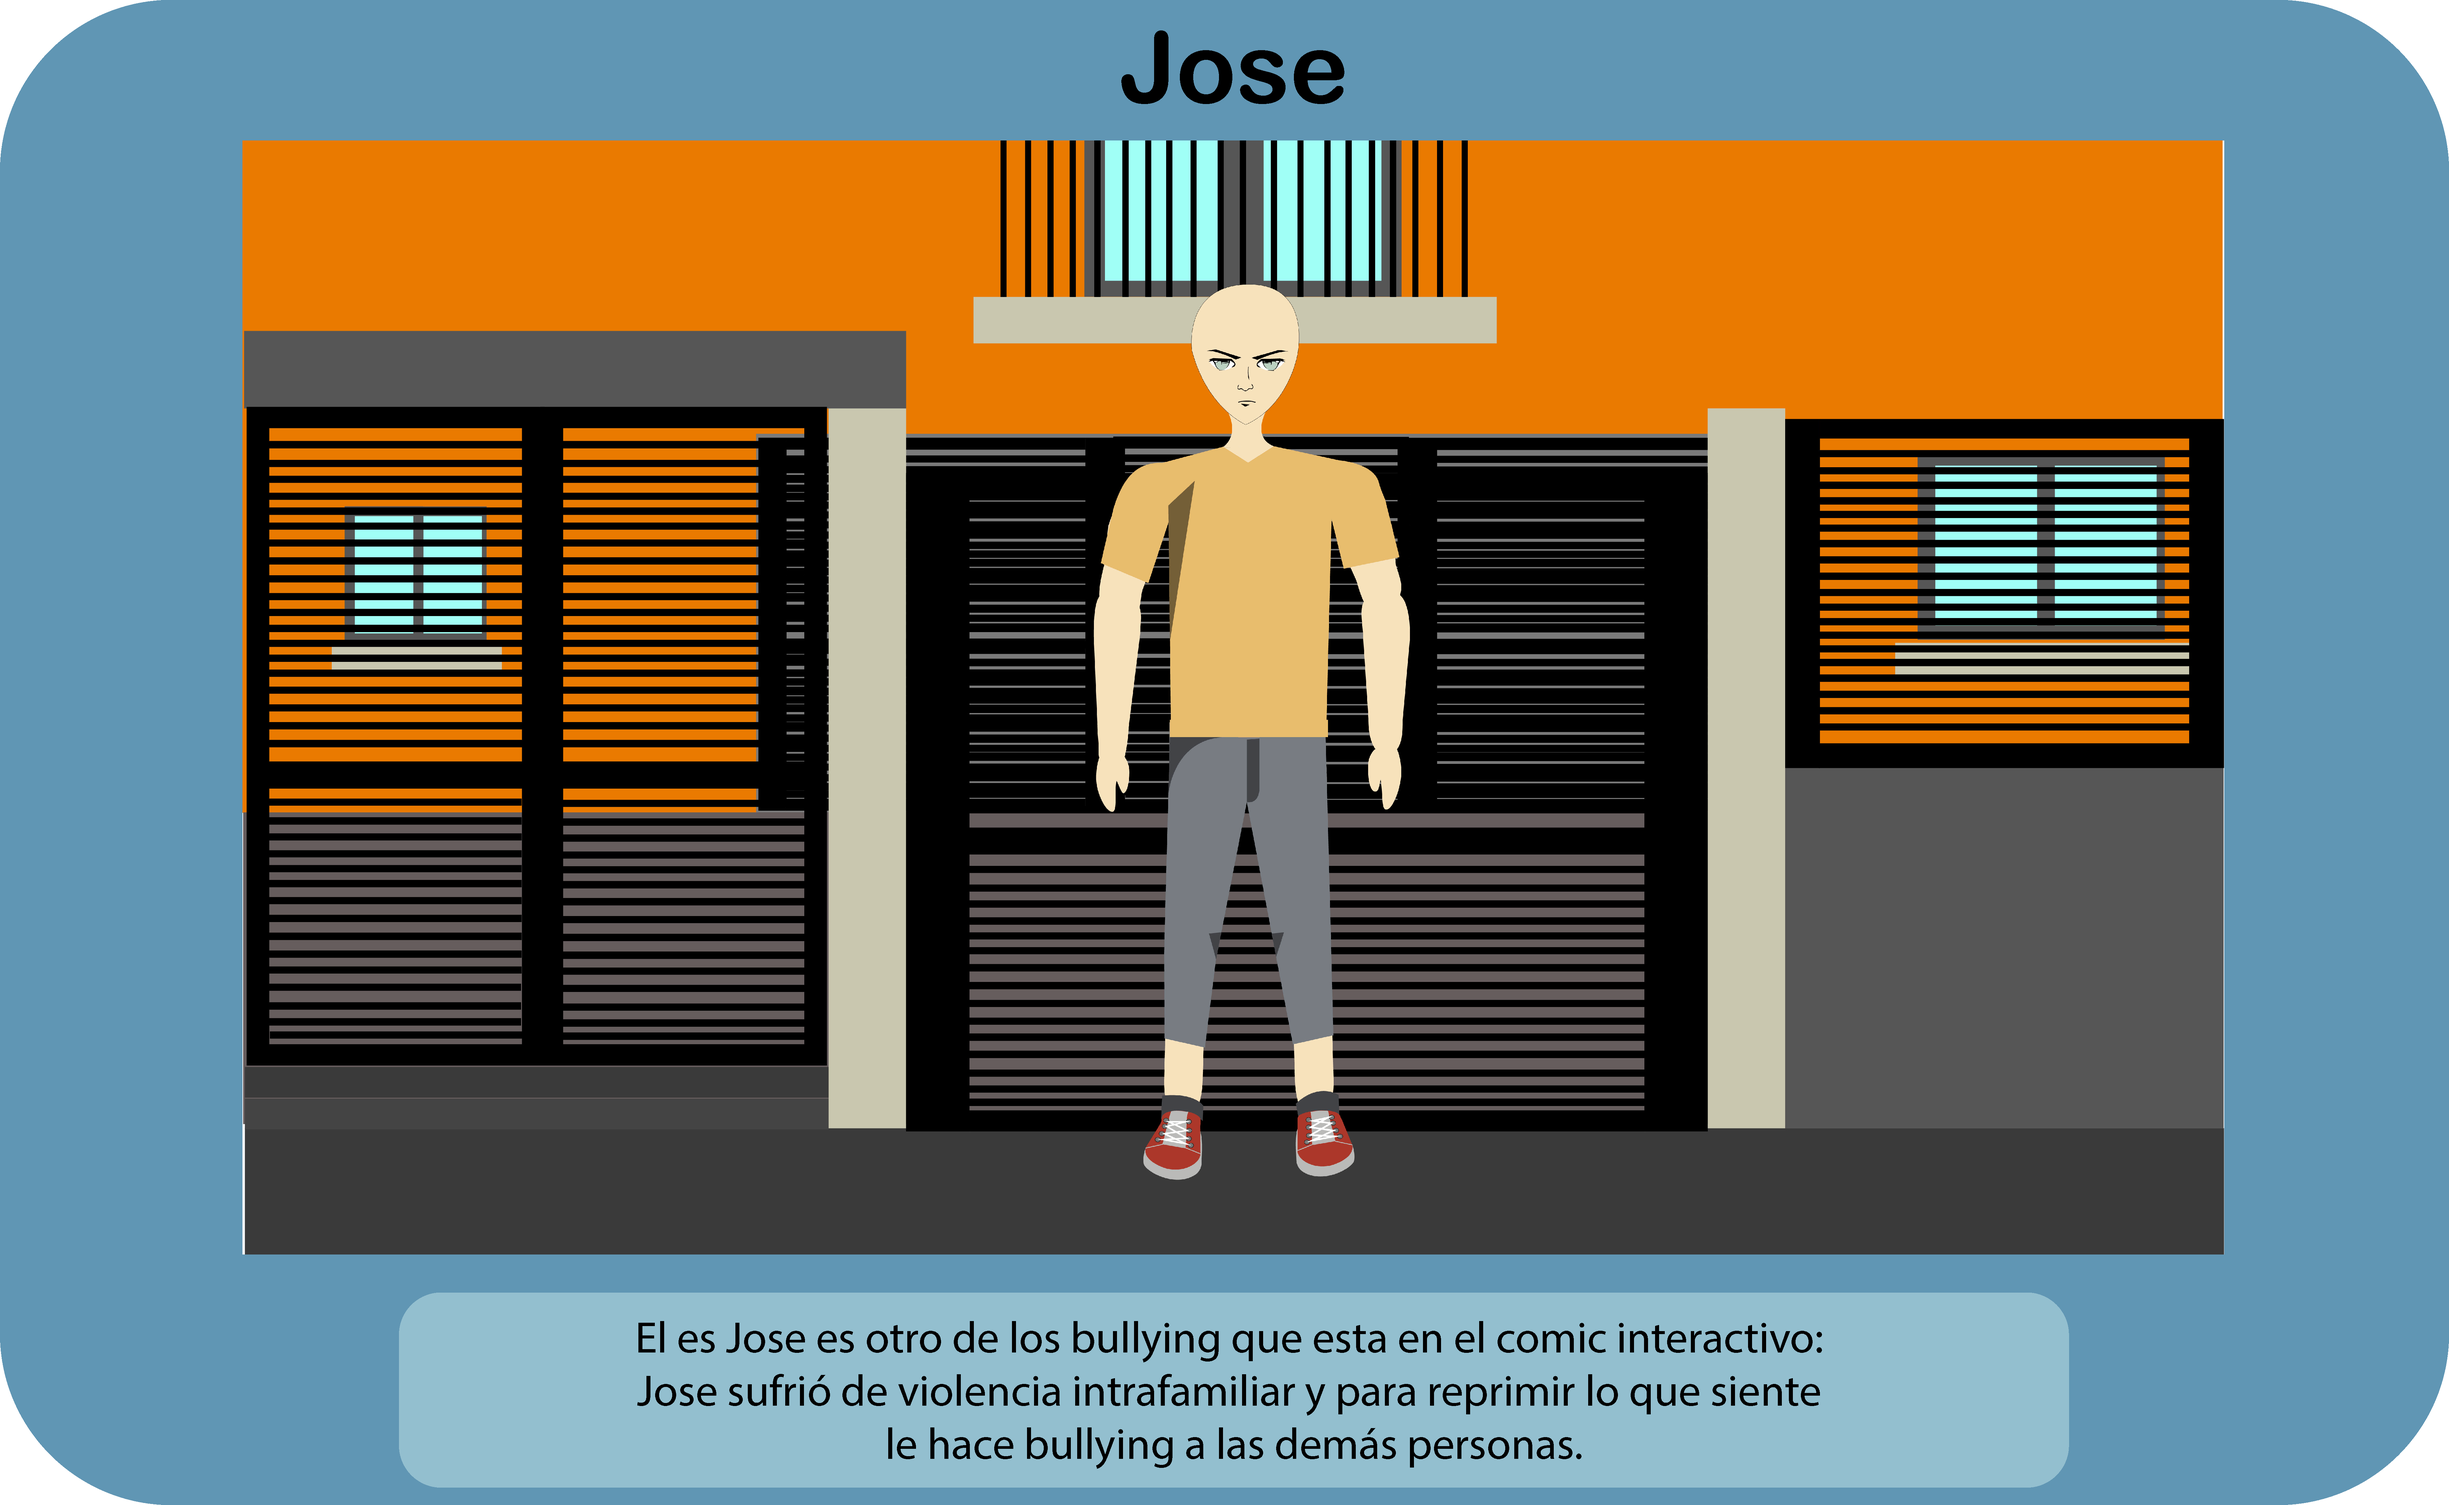
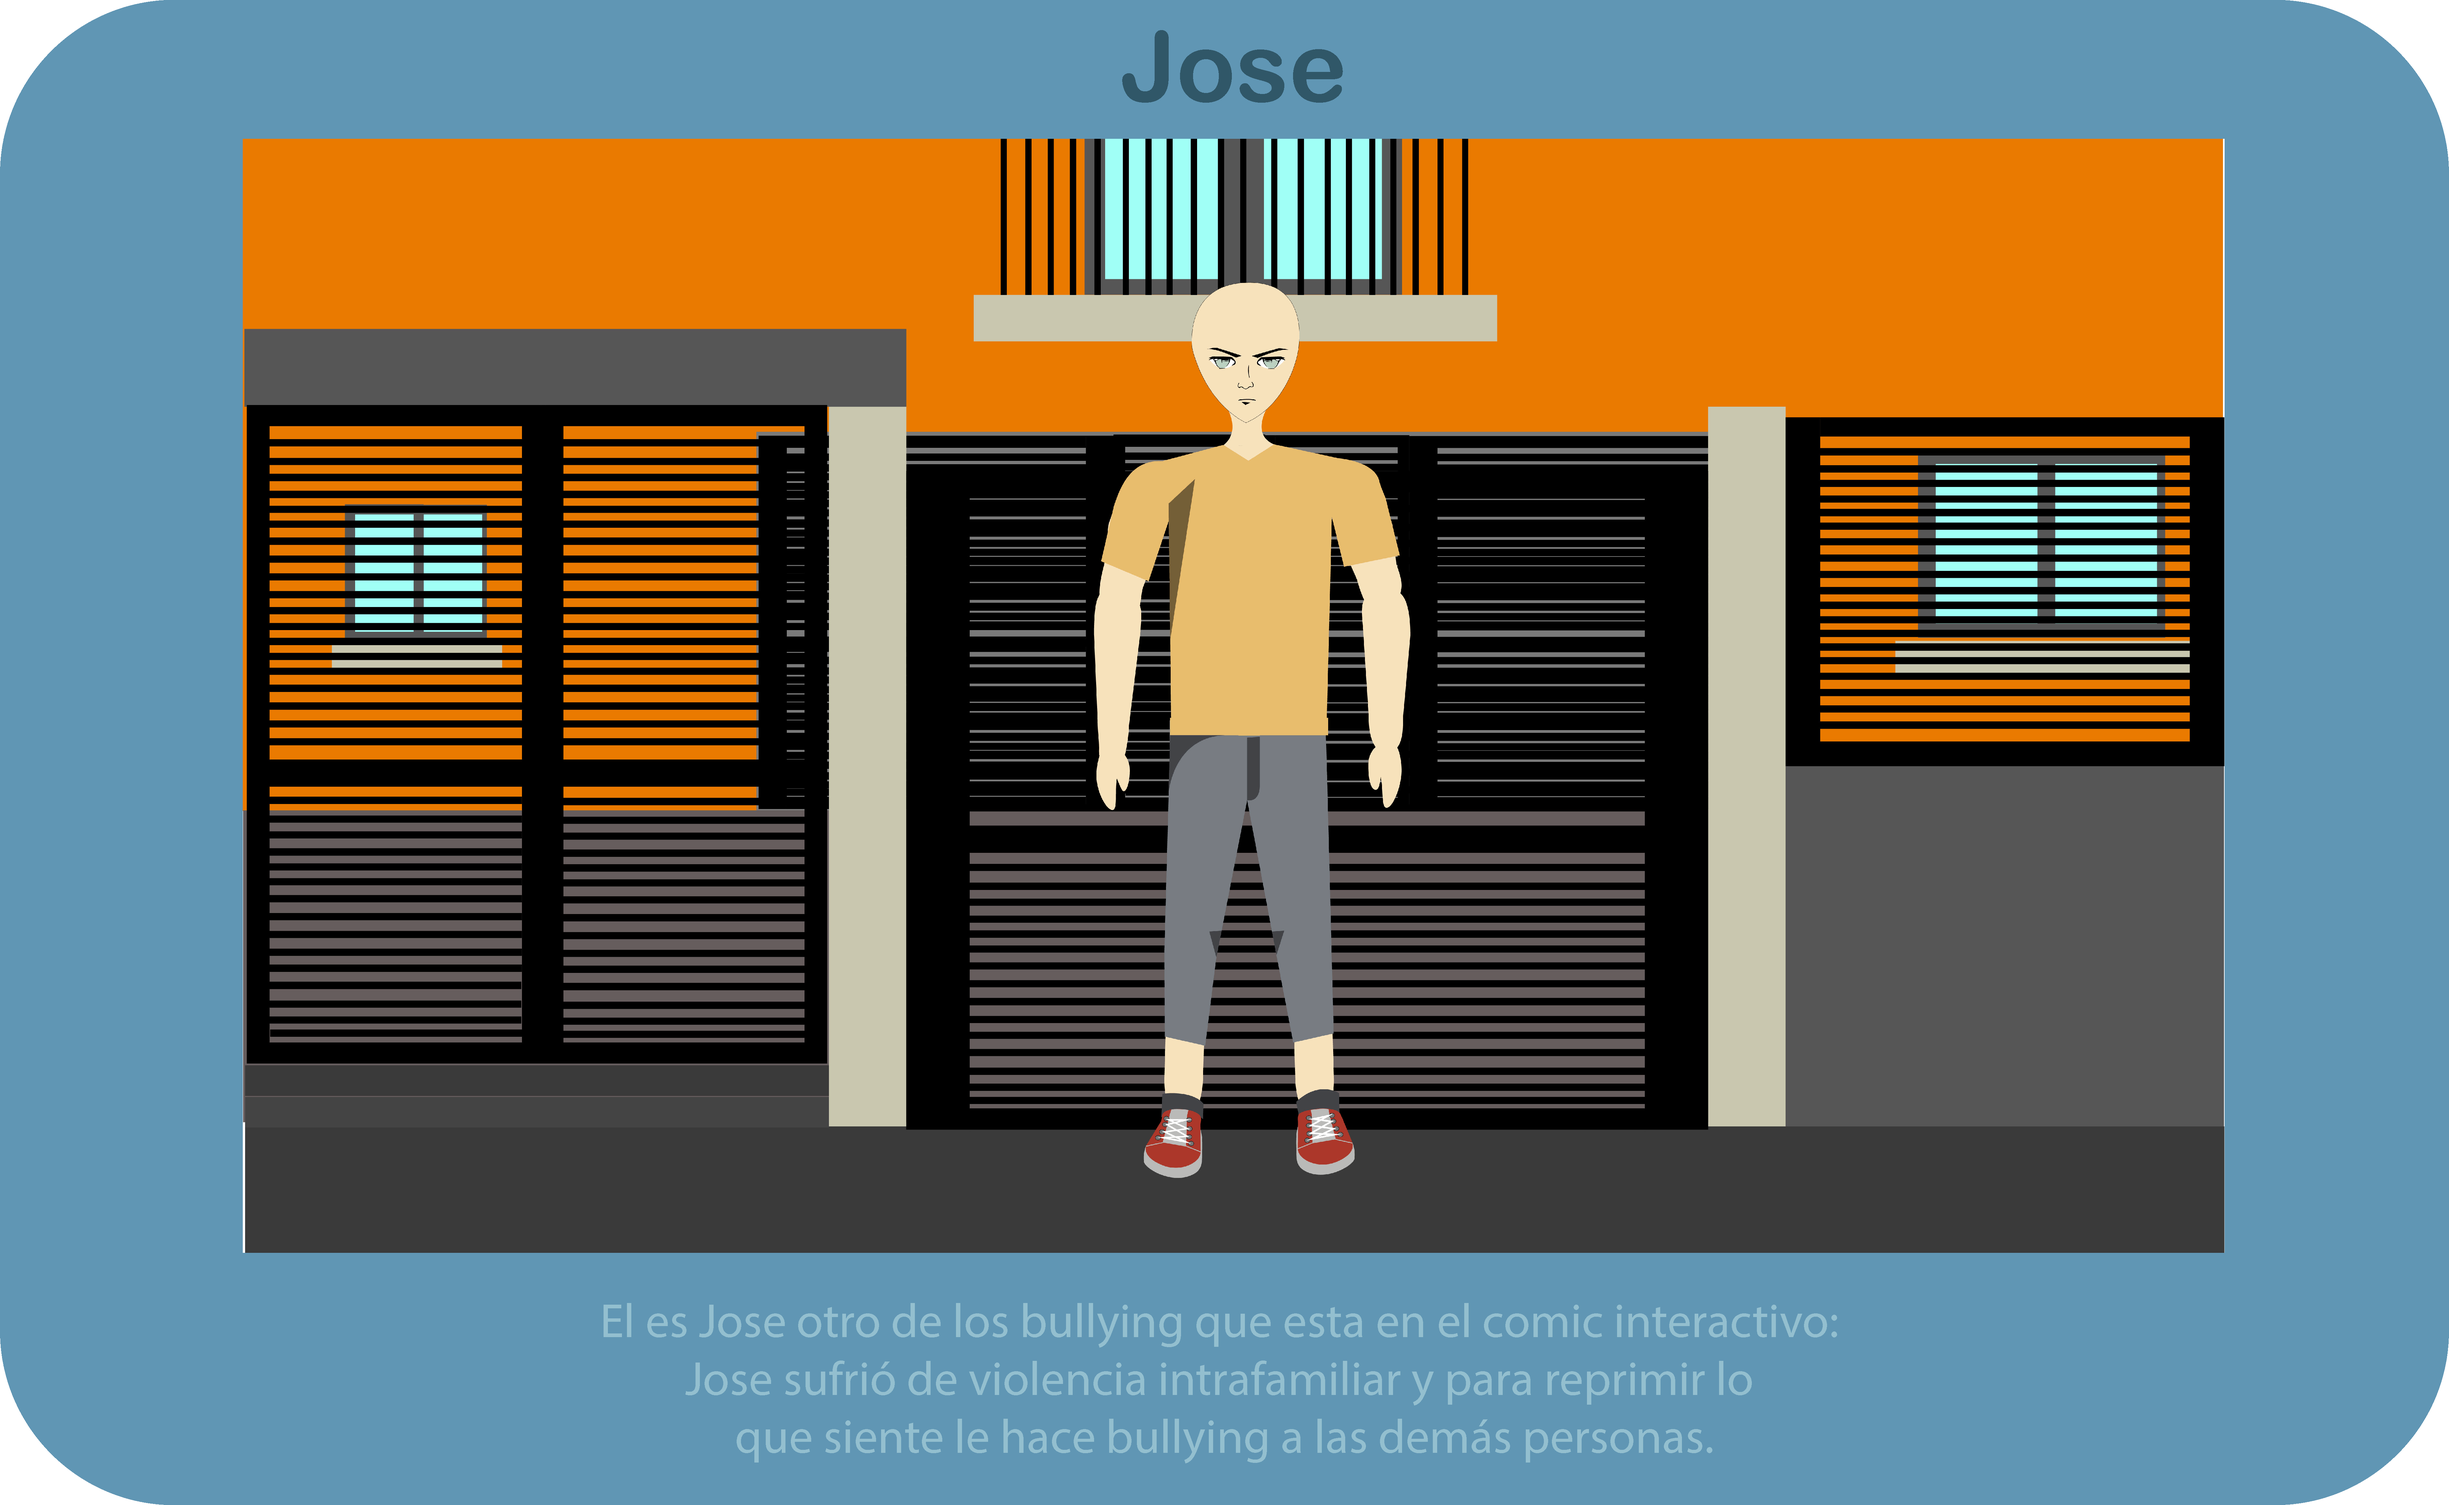
Add files via upload

diff --git a/css/style.css b/css/style.css
@@ -19,11 +19,11 @@ body{
     font-size: 40px;
 }
 .bienvenidos{
-    color: #416d7d;
+    color: #6096B4;
     margin-top: 15px;
 }
 .btn-inicio{
-    color:  #416d7d !important;
+    color:  #6096B4 !important;
 }
 .btn-inicio:hover{
     color: #fff  !important;
@@ -74,7 +74,6 @@ body{
 
   .btn1:hover {
     background-color: #77a9bb;
-  /*   border-color: #77a9bb; */
     transform: scale(1.1);
     transition: .5s;
   }
@@ -120,7 +119,6 @@ body{
 }
 
 .cajauno{
-   /* background-color: #93bfcfce;*/
      border-radius: 80px;
     height: 510px;
     width: 65%;
@@ -136,7 +134,6 @@ body{
 }
 
 .cajados{
-    /*background-color: #93bfcfce;*/
      border-radius: 80px;
     height:100%;
     width: 10px;
@@ -171,66 +168,27 @@ body{
     padding: 30px;
     box-shadow: 0 0 10px rgba(0, 0, 0, 0.5);
 }
-.imagen-mediana {
-    width: 25%; /* Ajusta el tamaño según tus necesidades */
+.imagen-mediana { 
+    width: 25%;
     height: auto;
     display: block;
     margin: auto;
 }
-.btn-cerrar {
-    background-color: #007bff; /* Color de fondo del botón */
-    color: #fff; /* Color del texto del botón */
-    padding: 10px 20px; /* Ajusta el padding según tus necesidades */
-    border: none;
-    border-radius: 5px; /* Bordes redondeados */
-    cursor: pointer;
-    font-size: 16px;
-}
 
-.btn-cerrar:hover {
-    background-color: #0056b3; /* Cambia el color de fondo al pasar el ratón sobre el botón */
-}
-/*.btn1 {
-    position: relative;
-    padding: 55px  25px;
-    background-color: #EEE9DA;
-    border: none;
-    border-radius: 20px;
-    outline: none;
-    color: #77a9bb;
-    cursor: pointer;
-    transition: .5s;
-    font-size: 30px;
-    font-family: Arial, Helvetica, sans-serif;
-}
-
-.btn1 :hover{
-    color: #416d7d;
-}*/
-
-.elcarucel{
+/*.elcarucel{
     display: flex;
     justify-content: center;
     align-items: center;
     width: 100%;
+}*/
+
+.accordionCabeza{
+    background-color: #93BFCF;
 }
 
-.btn2 {
-    position: relative;
-    padding: 10px 15px;
-    background-color: #EEE9DA;
-    border: none;
-    border-radius: 20px;
-    outline: none;
-    color: #77a9bb;
-    cursor: pointer;
-    transition: .5s;
-    font-size: 15px;
-    font-family: Arial, Helvetica, sans-serif;
-}
-
-.btn2 :hover{
-    color: #416d7d;
+.accordionCuerpo{
+    color: #EEE9DA;
+    background-color: #6096B4;
 }
 
 .btn3 {
@@ -240,7 +198,7 @@ body{
     border: none;
     border-radius: 5px;
     outline: none;
-    color: #77a9bb;
+    color: #93BFCF;
     cursor: pointer;
     transition: .5s;
 }
@@ -253,45 +211,10 @@ body{
     color: #6096B4;
 }
 
-.btn4 {
-    position: relative;
-    padding: 10px 15px;
-    background-color: #EEE9DA;
-    border: none;
-    border-radius: 20px;
-    outline: none;
-    color: #77a9bb;
-    cursor: pointer;
-    transition: .5s;
-    font-size: 15px;
-    font-family: Arial, Helvetica, sans-serif;
-}
-
-.btn4 :hover{
-    color: #416d7d;
-}
-
-.btn-cerrar {
-    position: relative;
-    padding: 10px 15px;
-    background-color: #EEE9DA;
-    border: none;
-    border-radius: 20px;
-    outline: none;
-    color: #77a9bb;
-    cursor: pointer;
-    transition: .5s;
-    font-size: 15px;
-    font-family: Arial, Helvetica, sans-serif;
-}
-
-.btn-cerrar :hover{
-    color: #416d7d;
-}
 .titulo-Smile{
     font-family: 'Bubblegum';
     src: url(../fuentes/Bubblegum.ttf);
-    color: #416d7d;
+    color: #6096B4;
 }
 
 .fondo-shadow{

diff --git a/index.html b/index.html
@@ -157,7 +157,7 @@
     <section>
         <div class="container" style="padding: 190px;" id="Personajes">
             <div class="row" style="margin-top: -15%;">
-                <h1 class="titulo text-center pt-5 titulo-personajes" style="color: #416d7d;">Personajes</h1>
+                <h1 class="titulo text-center pt-5 titulo-personajes" style="color: #6096B4;">Personajes</h1>
                 <div class="accordion pt-5" id="accordionExample">
                     <div class="accordion-item">
                         <h2 class="accordion-header">
